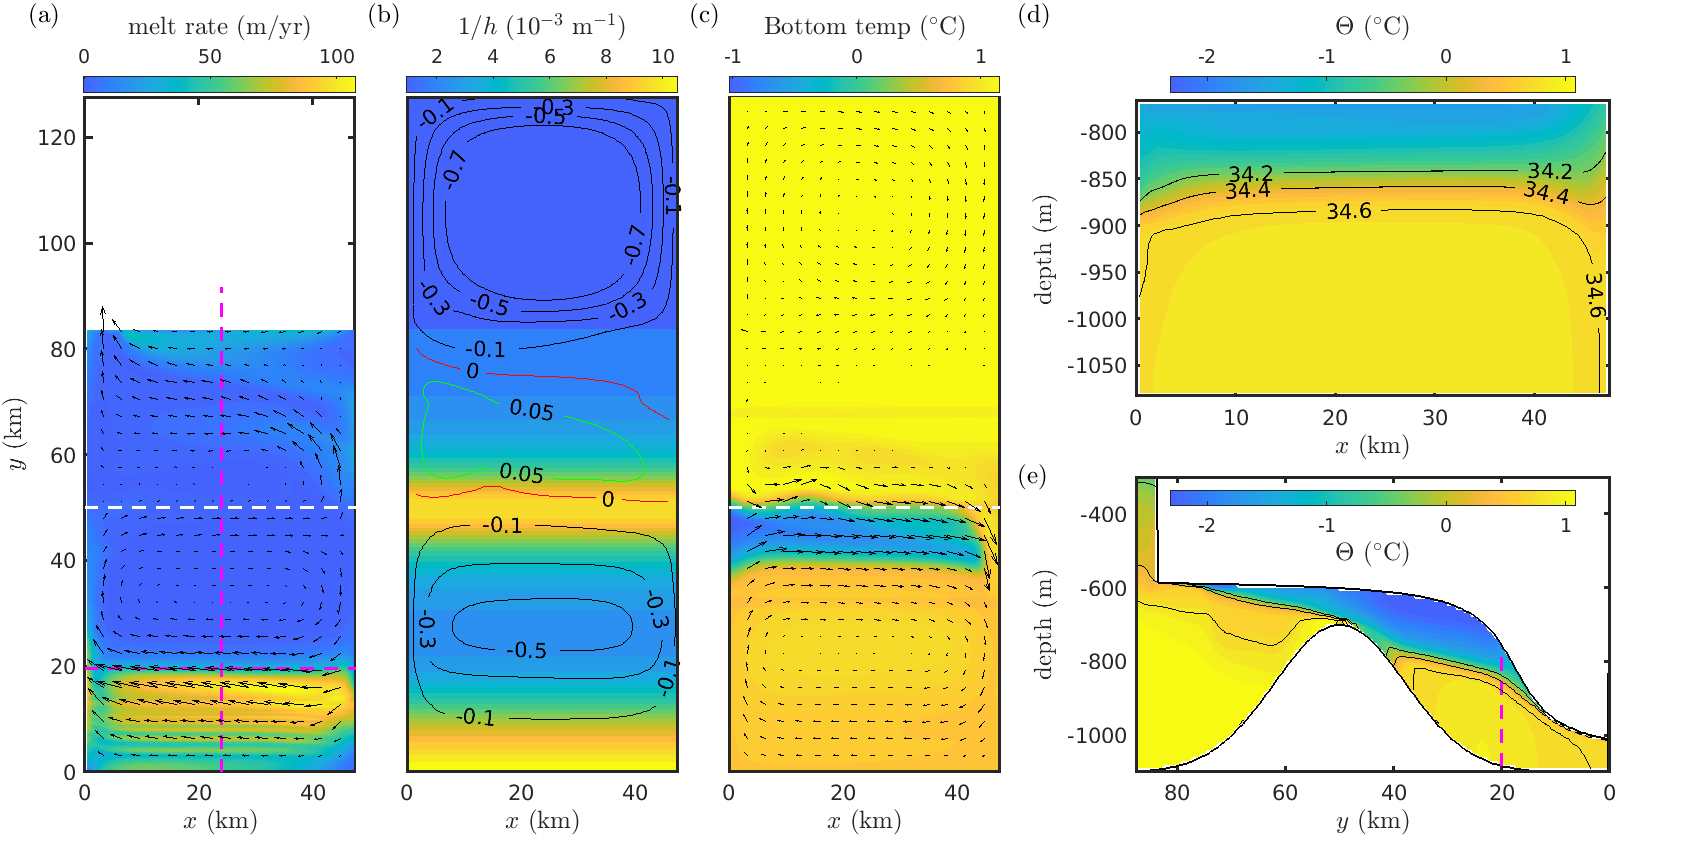
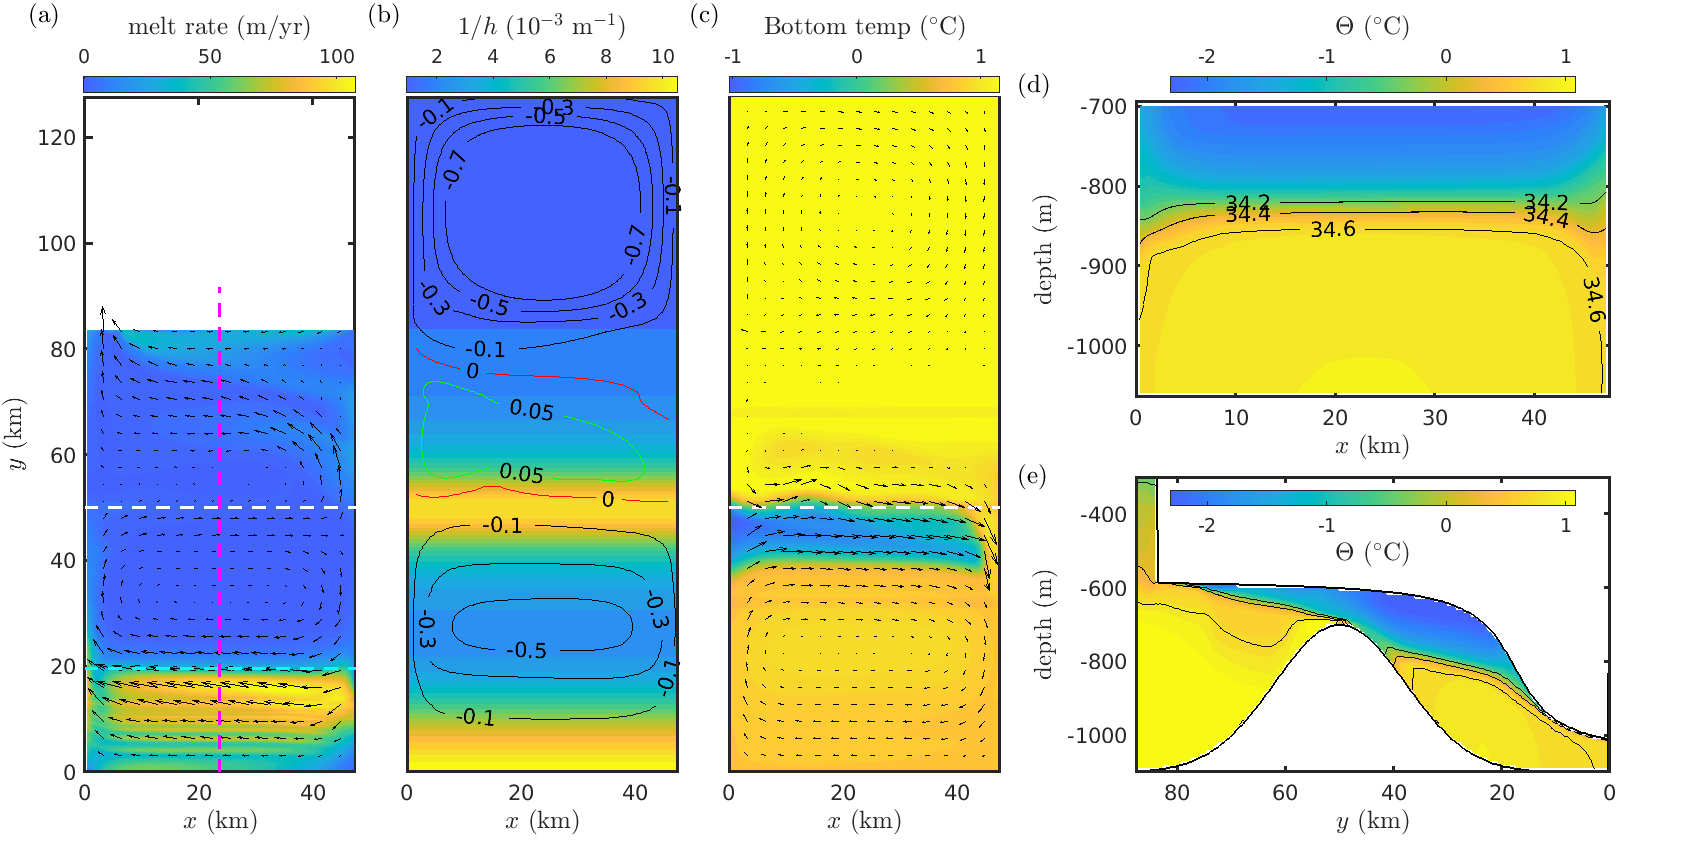
fig 3 updates

diff --git a/make_figures/make_figure3.m b/make_figures/make_figure3.m
@@ -22,8 +22,8 @@ label_size = 11;
 ax_fontsize = 10;
 figure(1); clf;
 fig = gcf; fig.Position(3:4) = [1085, 540];
-merid_idx = 60;
-zonal_idx = 50;
+NS_idx = 60; %index of line running North south
+EW_idx = 50; %index of line running east west
 
 % Data locations
 rootdir = '/data/oceans_output/shelf/aleey/mitgcm/APIGi_'; %not in git repo
@@ -186,10 +186,10 @@ idxY = 1:8:320;
 [XX,YY] = meshgrid(X,Y);
 XX = XX/1e3; YY = YY/1e3;
 velscale =15;
-plot(X/1e3, 50*ones(length(X), 1), 'w--', 'linewidth', 1.5)
-plot(X/1e3, Y(zonal_idx)*ones(length(X))/1e3, 'm--', 'linewidth', 1.5)
-plot(24*ones(1,230), Y(1:230)/1e3, 'm--', 'linewidth', 1.5);
 quiver(XX(idxY, idxX),YY(idxY, idxX),velscale *Ubl(idxX, idxY)', velscale*Vbl(idxX, idxY)', 'autoscale', 'off', 'color', 'k')
+plot(X/1e3, 50*ones(length(X), 1), 'w--', 'linewidth', 1.5)
+plot(X/1e3, Y(EW_idx)*ones(length(X))/1e3, 'c--', 'linewidth', 1.5)
+plot(X(NS_idx)*ones(1,230)/1e3, Y(1:230)/1e3, 'm--', 'linewidth', 1.5);
 
 %colorbar and arrow
 A = colorbar;
@@ -271,15 +271,15 @@ text(-7,143, '(c)', 'Interpreter', 'latex', 'FontSize',  12)
 %
 ax(4) = subplot('Position', positions(4,:)); hold on; box on;
 ax(4).FontSize = 10;
-SMS = squeeze(Salt(merid_idx, :,:));
-TMS = squeeze(Theta(merid_idx, :, :));
+SMS = squeeze(Salt(EW_idx, :,:));
+TMS = squeeze(Theta(EW_idx, :, :));
 for p = 1:ny
 for q = 1:nz
-        if bathy(merid_idx,p) > -Z(q)
+        if bathy(EW_idx,p) > -Z(q)
         TMS(p,q) = nan;
         SMS(p,q) = nan;
         end
-        if topo(merid_idx,p)< -Z(q)
+        if topo(EW_idx,p)< -Z(q)
         TMS(p,q) = nan;
         SMS(p,q) = nan;
         UMS(p,q) = nan;
@@ -290,8 +290,8 @@ end
 contourf(max(Y)/1e3 - Y/1e3,-Z, TMS',30, 'linestyle', 'none');
 colormap(ax(4), cmap);
 hold on
-plot(max(Y)/1e3 - Y/1e3, topo(merid_idx, :), 'k', 'linewidth', 1)
-plot(max(Y)/1e3 - Y/1e3, bathy(merid_idx, :), 'k', 'linewidth', 1)
+plot(max(Y)/1e3 - Y/1e3, topo(EW_idx, :), 'k', 'linewidth', 1)
+plot(max(Y)/1e3 - Y/1e3, bathy(EW_idx, :), 'k', 'linewidth', 1)
 xlim([4*1e4, Y(end)]/1e3)
 ylim([-1100,-300])
 ylabel('depth (m)', 'Interpreter', 'latex', 'FontSize', 12);
@@ -305,7 +305,7 @@ c.Position(2) = 0.4;
 c.Label.String = '$\Theta$~(${}^\circ$C)';
 c.Label.Interpreter = 'latex';
 c.Label.FontSize = 12;
-plot((max(Y)/1e3 - 20)*[1,1], [bathy(3,zonal_idx),topo(3,zonal_idx)], 'm--', 'linewidth', 1.5)
+%plot((max(Y)/1e3 - 20)*[1,1], [bathy(3,NS_idx),topo(3,NS_idx_idx)], 'm--', 'linewidth', 1.5)
 
 
 axnew = axes;
@@ -329,15 +329,15 @@ text(18,-300, '(e)', 'Interpreter', 'latex', 'FontSize',  12)
 % 
 ax(5) = subplot('Position', positions(5,:)); hold on; box on;
 ax(5).FontSize = 10;
-SZS = squeeze(Salt(:, zonal_idx,:));
-TZS = squeeze(Theta(:, zonal_idx, :));
+SZS = squeeze(Salt(:, NS_idx,:));
+TZS = squeeze(Theta(:, NS_idx, :));
 for p = 1:nx
 for q = 1:nz
-        if bathy(p,zonal_idx) > -Z(q)
+        if bathy(p,NS_idx) > -Z(q)
         TZS(p,q) = nan;
         SZS(p,q) = nan;
         end
-        if topo(p,zonal_idx)< -Z(q)
+        if topo(p,NS_idx)< -Z(q)
         TZS(p,q) = nan;
         SZS(p,q) = nan;
         end
@@ -358,7 +358,7 @@ d.Label.Interpreter = 'latex';
 d.Label.FontSize = 12;
 d.Position(3) = widthsect - 0.04;
 d.Position(4) = 0.02;
-ylim([bathy(3,zonal_idx),topo(3,zonal_idx)])
+ylim([bathy(3,NS_idx),topo(3,NS_idx)])
 axnew = axes;
 axnew.Position = ax(5).Position;
 [C,h] =contour(X/1e3,-Z , SZS', 34.2:0.2:34.6, 'k');
@@ -367,7 +367,7 @@ clabel(C,h);
 xticks([]);
 yticks([]);
 set(axnew, 'color', 'none')
-ylim([bathy(3,zonal_idx),topo(3,zonal_idx)])
+ylim([bathy(3,NS_idx),topo(3,NS_idx)])
 
 text(-12,-675, '(d)', 'Interpreter', 'latex', 'FontSize',  12)
 
